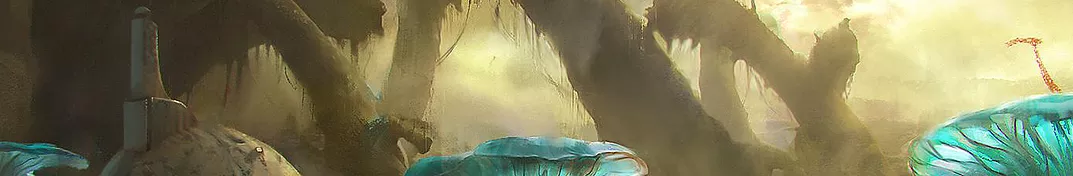
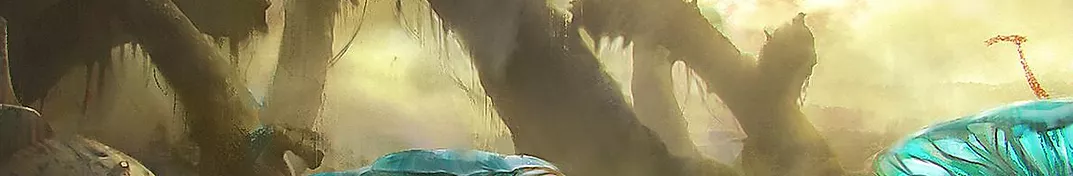
rge

diff --git a/css/worldlist.css b/css/worldlist.css
@@ -859,7 +859,7 @@ transform: translate(-50%, -50%);
   top: 38%;
   left: 50%;
   transform: translate(-50%, -50%);
-  text-shadow: -1px 0 #dbdbd3, 0 1px #dbdbd3, 1px 0 #dbdbd3, 0 -1px #dbdbd3;
+  text-shadow: -1px 0 #aaaaa0, 0 1px #aaaaa0, 1px 0 #aaaaa0, 0 -1px #aaaaa0;
 }
 
 .img-jedha h3 {
@@ -1010,6 +1010,37 @@ transform: translate(-50%, -50%);
 }
 
 .img-kashyyyk img {
+    border-radius: 7px;
+    width: 58%;
+}
+
+/* Felucia Image */
+
+.img-felucia {
+  position: relative;
+  text-align: center;
+}
+
+.img-felucia h1 {
+  position: absolute;
+  top: 38%;
+  left: 50%;
+  transform: translate(-50%, -50%);
+  text-shadow: -1px 0 #67a89f, 0 1px #67a89f, 1px 0 #67a89f, 0 -1px #67a89f;
+}
+
+.img-felucia h3 {
+  font-family: brandon-grotesque, sans-serif;
+  font-weight: 800;
+  position: absolute;
+  top: 62%;
+  left: 50%;
+  transform: translate(-50%, -50%);
+  -webkit-text-stroke-color: #67a89f;
+  -webkit-text-stroke-width: 1px; 
+}
+
+.img-felucia img {
     border-radius: 7px;
     width: 58%;
 }
@@ -1764,6 +1795,17 @@ footer img {
   width: 180%;
 }
 
+/* Felucia Image */
+
+.img-felucia h1 {
+ width: 70%;
+}
+
+.img-felucia img {
+  border-radius: 0px;
+  width: 180%;
+}
+
 /* Aleen Image */
 
 .img-aleen img {
@@ -1986,6 +2028,13 @@ footer img {
   border-radius: 0px;
   width: 135%;
 }
+
+/* Felucia Image */
+
+ .img-felucia img {
+   border-radius: 0px;
+   width: 135%;
+ }
 
 /* Aleen Image */
 
@@ -2245,6 +2294,13 @@ footer img {
     width: 108%;
 }
 
+/* Felucia Image */
+
+.img-felucia img {
+  border-radius: 0px;
+  width: 108%;
+}
+
 /* Aleen Image */
 
 .img-aleen img {
@@ -2492,6 +2548,13 @@ footer img {
 /* Mandalore Image */
 
 .img-mandalore img {
+  border-radius: 7px;
+  width: 80%;
+}
+
+/* Felucia Image */
+
+.img-felucia img {
   border-radius: 7px;
   width: 80%;
 }

diff --git a/outer-rim.html b/outer-rim.html
@@ -1235,10 +1235,10 @@
         <h3><span id="ornament">j  </span> &nbsp;O U T E R &nbsp; R I M &nbsp; <span id="ornament">  j</span></h3>
     </div>
     <div class="coruscant">
-        <div class="img-corellia2">
+        <div class="img-felucia">
             <img src="images/felucia.png">
-            <h1><font color=#222A36>Felucia</font></h1>
-            <h3><font color=#222A36>&nbsp;O U T E R &nbsp; R I M</font></h3>
+            <h1><font color=#aeebe2>Felucia</font></h1>
+            <h3><font color=#75bfb4>&nbsp;O U T E R &nbsp; R I M</font></h3>
         </div>
         <div id="cw-underimg">
             <img src="images/misc/clone-wars-icon4.png" style='background-color: #75bfb4'>
